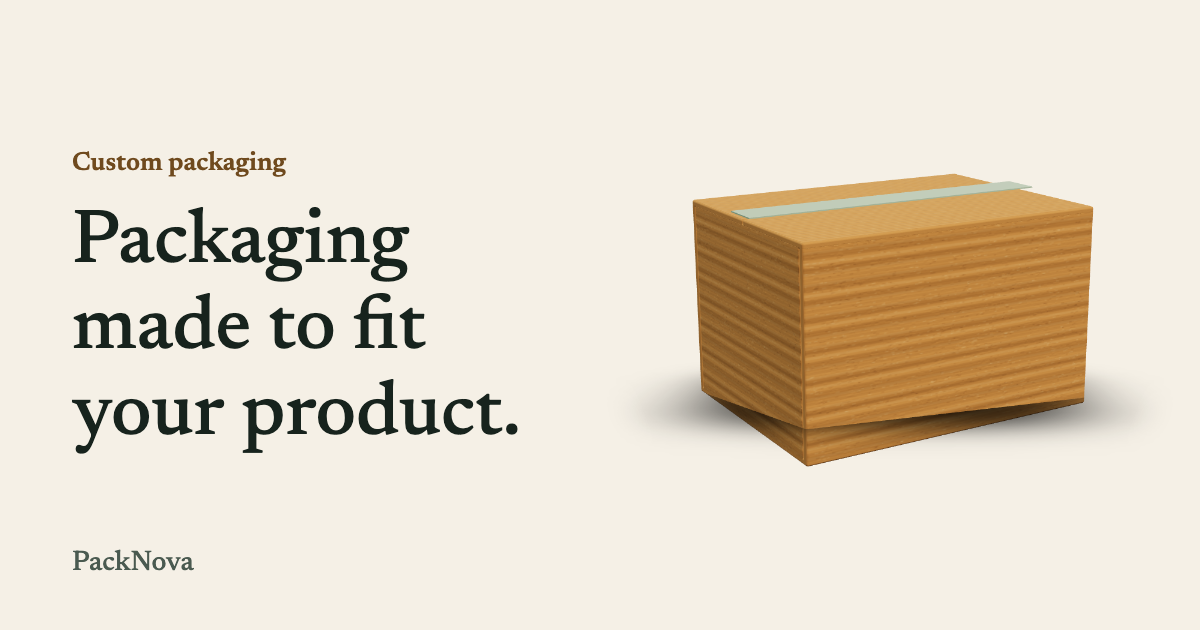
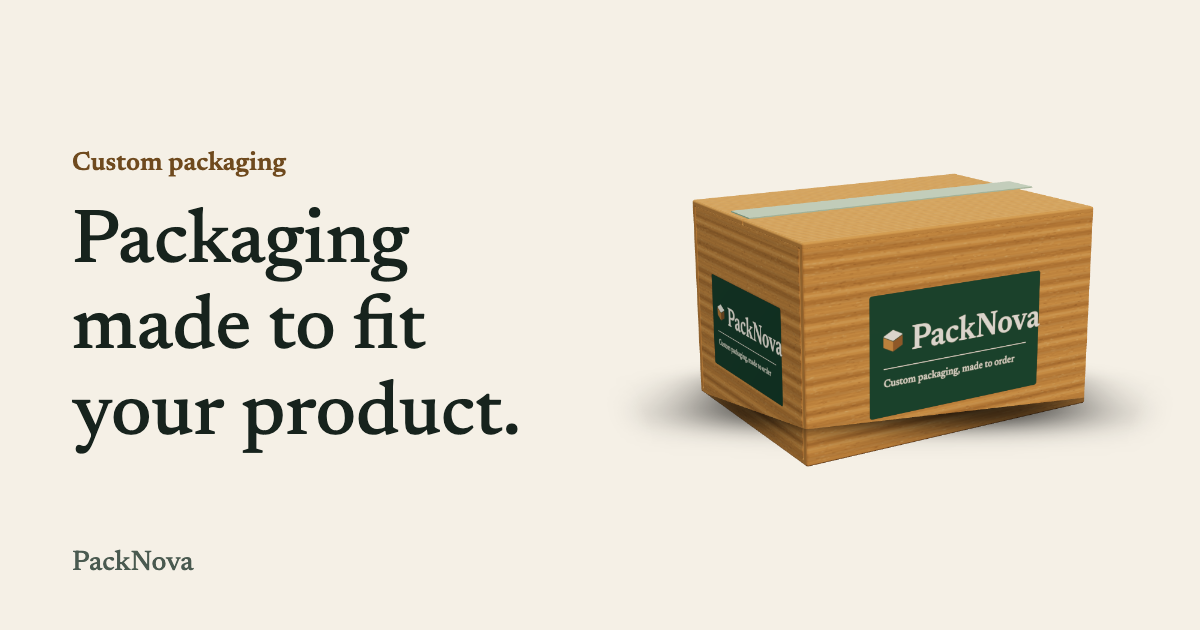
Design pass 2: branded hero carton and matching posters, film stage without a frame, one homepage ending band, lighter clouds, guideline fixes
- hero carton: printed forest panel with the mark and wordmark (display face) on the front and both side walls
- posters: desktop poster cropped from the live canvas at the poster image's own rectangle (poster slot now tracks the live box), separate phone poster via <picture>; export-images.mjs --phone
- film stage: no border or card, edges feather into the dark section; framing unchanged
- homepage ending: configurator hand-off folded into the quote band, the note field is one tap away; ConfiguratorTeaser removed
- delivery clouds: self-lit so they read light and warm
- web-design-guidelines audit fixes: pause control for the 9 s band loop, touch-action, translate=no on the brand, balanced headings, quantity autocomplete off, theme-color matches the page
- docs: design audit updated, before/after screenshots in docs/screenshots/pages-v1/design-pass

Changed region(s): [[0.7092, 0.4222, 0.8942, 0.6635], [0.5858, 0.4222, 0.6783, 0.6333]]

diff --git a/src/components/canvas/Box3D.tsx b/src/components/canvas/Box3D.tsx
@@ -7,7 +7,8 @@ import { useAppStore } from "@/lib/store";
 import { rbox } from "@/lib/geometry";
 import { THEMES, type Theme } from "@/lib/palette";
 import { seg } from "@/lib/making";
-import { setKraftBase, kraftTexture, kraftNormal, contactShadowTexture } from "@/lib/textures";
+import { setKraftBase, kraftTexture, kraftNormal, contactShadowTexture, brandPanelTexture } from "@/lib/textures";
+import { brand } from "@/content/siteCore";
 
 /* ---------- dimensions (world units) ---------- */
 const W = 1.6; // width  (x)
@@ -58,16 +59,20 @@ function buildAssets(detail: 0 | 1 | 2, theme: Theme) {
     depthWrite: false,
   });
   const shadowMat = new THREE.MeshBasicMaterial({ map: shadowMap, transparent: true, depthWrite: false });
+  // printed brand panel on the front and the right wall (the carton in the film carries the same print)
+  const brandMap = brandPanelTexture(brand.name, "Custom packaging, made to order", theme.printBlock ?? "#1e4d3a", theme.fg, () => getComputedStyle(document.querySelector("h1") ?? document.body).fontFamily);
+  const brandMat = new THREE.MeshStandardMaterial({ map: brandMap, transparent: true, roughness: 0.82, metalness: 0, depthWrite: false, polygonOffset: true, polygonOffsetFactor: -2 });
 
   const disposables: { dispose(): void }[] = [
     flapFB, flapLR, bottom, wallFB, wallLR, tape, plane,
     kraftMap, shadowMap, ...(normalMap ? [normalMap] : []),
-    board, tapeMat, glowMat, shadowMat,
+    board, tapeMat, glowMat, shadowMat, brandMap, brandMat,
   ];
 
   return {
     g: { flapFB, flapLR, bottom, wallFB, wallLR, tape, plane },
-    m: { board, tapeMat, glowMat, shadowMat },
+    m: { board, tapeMat, glowMat, shadowMat, brandMat },
+    brandMap,
     accent,
     look: theme.scene,
     disposables,
@@ -195,8 +200,19 @@ export default function Box3D({ detail, reducedMotion }: Props) {
     updateFrame(state, delta, assets, anim.current, parts, detail, reducedMotion);
   });
 
-  // The box leans toward the pointer (fine pointers only: touch screens have none). Listener is passive and writes two numbers.
   const invalidate = useThree((s) => s.invalidate);
+  // the wordmark is painted with the display face: draw it again once the page fonts are in
+  useEffect(() => {
+    let live = true;
+    document.fonts?.ready.then(() => {
+      if (!live) return;
+      (assets.brandMap.userData.repaint as () => void)();
+      invalidate();
+    });
+    return () => { live = false; };
+  }, [assets, invalidate]);
+
+  // The box leans toward the pointer (fine pointers only: touch screens have none). Listener is passive and writes two numbers.
   useEffect(() => {
     if (reducedMotion || detail === 0 || !window.matchMedia("(pointer: fine)").matches) return;
     const p = anim.current.ptr;
@@ -242,6 +258,11 @@ export default function Box3D({ detail, reducedMotion }: Props) {
             <mesh geometry={g.flapLR} material={m.board} />
           </group>
         </group>
+
+        {/* ---- printed brand panel: front wall, and both side walls a little smaller ---- */}
+        <mesh geometry={g.plane} material={m.brandMat} position={[0, H * 0.45, D / 2 + 0.003]} scale={[1.0, 0.625, 1]} />
+        <mesh geometry={g.plane} material={m.brandMat} position={[W / 2 + 0.003, H * 0.45, 0]} rotation={[0, Math.PI / 2, 0]} scale={[0.8, 0.5, 1]} />
+        <mesh geometry={g.plane} material={m.brandMat} position={[-W / 2 - 0.003, H * 0.45, 0]} rotation={[0, -Math.PI / 2, 0]} scale={[0.8, 0.5, 1]} />
 
         {/* ---- seam tape and interior glow ---- */}
         <mesh ref={tapeRef} geometry={g.tape} material={m.tapeMat} position={[0, H + T + 0.004, 0]} />

diff --git a/src/components/sections/QuoteForm.tsx b/src/components/sections/QuoteForm.tsx
@@ -62,17 +62,17 @@ export default function QuoteForm() {
     >
       <div className="grid gap-4 sm:grid-cols-2">
         <label>
-          <span className="mb-1.5 block text-xs text-[var(--muted)]">{f.name}</span>
+          <span className="mb-1.5 block text-sm text-[var(--muted)]">{f.name}</span>
           <input name="name" required autoComplete="name" defaultValue={vals.name ?? ""} className={field} />
         </label>
         <label>
-          <span className="mb-1.5 block text-xs text-[var(--muted)]">{f.phone}</span>
+          <span className="mb-1.5 block text-sm text-[var(--muted)]">{f.phone}</span>
           <input name="phone" type="tel" required autoComplete="tel" inputMode="tel" defaultValue={vals.phone ?? ""} className={field} />
         </label>
       </div>
       <div className="grid gap-4 sm:grid-cols-[1.4fr_1fr]">
         <label>
-          <span className="mb-1.5 block text-xs text-[var(--muted)]">{f.product}</span>
+          <span className="mb-1.5 block text-sm text-[var(--muted)]">{f.product}</span>
           <select name="product" required defaultValue={product} className={field}>
             <option value="" disabled>
               {f.productPlaceholder}
@@ -85,14 +85,18 @@ export default function QuoteForm() {
           </select>
         </label>
         <label>
-          <span className="mb-1.5 block text-xs text-[var(--muted)]">{f.quantity}</span>
-          <input name="quantity" type="number" min={1} inputMode="numeric" required defaultValue={vals.quantity ?? qty} className={field} />
+          <span className="mb-1.5 block text-sm text-[var(--muted)]">{f.quantity}</span>
+          <input name="quantity" type="number" min={1} inputMode="numeric" autoComplete="off" required defaultValue={vals.quantity ?? qty} className={field} />
         </label>
       </div>
-      <label>
-        <span className="mb-1.5 block text-xs text-[var(--muted)]">{f.message}</span>
-        <textarea name="message" rows={2} defaultValue={message} className={field} />
-      </label>
+      {/* the note stays one tap away instead of a fifth open field (still sent with the form, open when a page prefilled it) */}
+      <details open={message.length > 0} className="group">
+        <summary className="cursor-pointer list-none text-sm font-semibold text-[var(--accent)] underline-offset-4 hover:underline [&::-webkit-details-marker]:hidden">
+          <span className="group-open:hidden">+ {f.message}</span>
+          <span className="hidden group-open:inline">{f.message}</span>
+        </summary>
+        <textarea name="message" rows={3} aria-label={f.message} defaultValue={message} className={`${field} mt-2`} />
+      </details>
       <button
         type="submit"
         className="mt-1 inline-flex items-center justify-center rounded-[var(--r-btn)] bg-[var(--accent)] px-8 py-4 text-base font-medium text-[var(--on-accent)] transition-colors duration-300 hover:bg-[var(--fg)]"

diff --git a/src/shared/HeroStage.tsx b/src/shared/HeroStage.tsx
@@ -8,6 +8,8 @@ import { useAppStore } from "@/lib/store";
 interface Props {
   /** Template-specific poster (a render of the hero box in this template's colors). */
   posterSrc: string;
+  /** Poster rendered at phone proportions (the 3D framing differs on a narrow screen), shown below 768 px. */
+  posterSrcMobile?: string;
   posterAlt: string;
   /** Position/size classes for the poster (it sits where the live 3D box will be). */
   posterClassName: string;
@@ -21,7 +23,7 @@ interface Props {
  * Hero scroll engine: pins the hero for 240vh, writes the 0..1 progress that opens the box on the
  * shared fixed canvas, and shows a static poster until the live canvas is ready.
  */
-export default function HeroStage({ posterSrc, posterAlt, posterClassName, behind, children }: Props) {
+export default function HeroStage({ posterSrc, posterSrcMobile, posterAlt, posterClassName, behind, children }: Props) {
   const track = useRef<HTMLDivElement>(null);
   const live = useAppStore((s) => s.ready && !!s.profile?.webgl && !s.glLost);
 
@@ -38,17 +40,20 @@ export default function HeroStage({ posterSrc, posterAlt, posterClassName, behin
       <div ref={track} className="absolute inset-0" />
       <div className="sticky top-0 h-dvh overflow-hidden">
         {behind}
-        {/* eslint-disable-next-line @next/next/no-img-element */}
-        <img
-          src={posterSrc}
-          alt={posterAlt}
-          width={800}
-          height={800}
-          fetchPriority="high"
-          loading="eager"
-          decoding="async"
-          className={`absolute transition-opacity duration-700 ${posterClassName} ${live ? "opacity-0" : "opacity-100"}`}
-        />
+        <picture>
+          {posterSrcMobile && <source media="(max-width: 767px)" srcSet={posterSrcMobile} />}
+          {/* eslint-disable-next-line @next/next/no-img-element */}
+          <img
+            src={posterSrc}
+            alt={posterAlt}
+            width={800}
+            height={800}
+            fetchPriority="high"
+            loading="eager"
+            decoding="async"
+            className={`absolute transition-opacity duration-700 ${posterClassName} ${live ? "opacity-0" : "opacity-100"}`}
+          />
+        </picture>
         {children}
       </div>
     </SceneZone>

diff --git a/src/lib/textures.ts b/src/lib/textures.ts
@@ -175,3 +175,46 @@ export function contactShadowTexture() {
   t.colorSpace = THREE.SRGBColorSpace;
   return t;
 }
+
+/**
+ * The printed brand panel of the hero carton (and the carton in the film uses the same look): a forest block with the mark, the wordmark and
+ * one line under a thin rule. Transparent around the block, so the kraft shows as a margin. `repaint()` draws it again (call it once the page
+ * fonts have loaded, so the wordmark uses the display face).
+ */
+export function brandPanelTexture(name: string, tagline: string, ink: string, paper: string, fontFamily: () => string) {
+  const [c, g] = makeCanvas(1024, 640);
+  const t = finish(c, true, false);
+  const repaint = () => {
+    const font = fontFamily();
+    g.clearRect(0, 0, 1024, 640);
+    g.fillStyle = ink;
+    g.beginPath();
+    g.roundRect(24, 24, 976, 592, 14);
+    g.fill();
+    // the mark: a small folded box, same three faces as the logo
+    const mx = 150, my = 255, k = 4.3;
+    const poly = (pts: number[][], fill: string) => {
+      g.beginPath();
+      pts.forEach(([x, y], i) => (i ? g.lineTo(mx + x * k, my + y * k) : g.moveTo(mx + x * k, my + y * k)));
+      g.closePath();
+      g.fillStyle = fill;
+      g.fill();
+    };
+    poly([[-12, -6], [0, 0], [0, 11], [-12, 5]], "#b8803f");
+    poly([[12, -6], [0, 0], [0, 11], [12, 5]], "#8a5f2e");
+    poly([[0, -13], [12, -7], [0, -1], [-12, -7]], paper);
+    g.fillStyle = paper;
+    g.textBaseline = "alphabetic";
+    g.font = `600 170px ${font}`;
+    g.fillText(name, 250, 308);
+    g.fillRect(100, 380, 824, 3);
+    g.font = `400 52px ${font}`;
+    g.globalAlpha = 0.9;
+    g.fillText(tagline, 100, 470);
+    g.globalAlpha = 1;
+    t.needsUpdate = true;
+  };
+  repaint();
+  t.userData.repaint = repaint;
+  return t;
+}

diff --git a/src/templates/eco/QuoteSection.tsx b/src/templates/eco/QuoteSection.tsx
@@ -1,3 +1,4 @@
+import Link from "next/link";
 import { site } from "@/content/site";
 import QuoteForm from "@/components/sections/QuoteForm";
 import TrackedA from "@/components/ui/TrackedA";
@@ -13,7 +14,10 @@ export default function QuoteSection() {
         <div data-reveal="subtle">
           <h2 className="font-display text-4xl font-medium leading-[1.12] md:text-5xl">{copy.quote.heading}</h2>
           <p className="mt-4 max-w-md text-lg opacity-90">{copy.quote.lead}</p>
-          <TrackedA event="quote_section_whatsapp" href={c.whatsappHref} className="mt-8 inline-flex rounded-[var(--r-btn)] border border-[var(--on-accent)] px-6 py-3 text-base font-semibold hover:bg-[var(--on-accent)] hover:text-[var(--accent)]">
+          <p className="mt-8 font-display text-2xl font-medium">{copy.configurator.heading}</p>
+          <p className="mt-1 max-w-md opacity-90">{copy.configurator.body}</p>
+          <Link href="/configurator/" className="mt-4 inline-flex rounded-[var(--r-btn)] bg-[var(--on-accent)] px-6 py-3 text-base font-semibold text-[var(--accent)] hover:bg-white">{copy.configurator.cta}</Link>
+          <TrackedA event="quote_section_whatsapp" href={c.whatsappHref} className="mt-10 inline-flex rounded-[var(--r-btn)] border border-[var(--on-accent)] px-6 py-3 text-base font-semibold hover:bg-[var(--on-accent)] hover:text-[var(--accent)]">
             {q.whatsappCta}: {c.whatsapp}
           </TrackedA>
           <ul className="mt-6 space-y-1 text-base">

diff --git a/src/catalog/InViewPlay.tsx b/src/catalog/InViewPlay.tsx
@@ -1,10 +1,11 @@
 "use client";
 
-import { useEffect, useRef, type ReactNode } from "react";
+import { useEffect, useRef, useState, type ReactNode } from "react";
 
-/** Sets data-on on its wrapper while it is on screen, so a CSS animation can run only then (without script it stays paused). */
+/** Sets data-on on its wrapper while it is on screen, so a CSS animation can run only then (without script it stays paused); has a pause button. */
 export default function InViewPlay({ className, children }: { className?: string; children: ReactNode }) {
   const ref = useRef<HTMLDivElement>(null);
+  const [paused, setPaused] = useState(false);
   useEffect(() => {
     const el = ref.current;
     if (!el || !("IntersectionObserver" in window)) return;
@@ -12,5 +13,13 @@ export default function InViewPlay({ className, children }: { className?: string
     io.observe(el);
     return () => io.disconnect();
   }, []);
-  return <div ref={ref} className={className}>{children}</div>;
+  // a loop that lasts longer than 5 s next to other content needs a way to stop it (WCAG 2.2.2)
+  return (
+    <div ref={ref} className={className} data-paused={paused ? "" : undefined}>
+      {children}
+      <button type="button" aria-pressed={paused} onClick={() => setPaused((v) => !v)} className="band-pause mt-2 block text-sm font-semibold underline underline-offset-4">
+        {paused ? "Play animation" : "Pause animation"}
+      </button>
+    </div>
+  );
 }

diff --git a/src/templates/eco/Story.tsx b/src/templates/eco/Story.tsx
@@ -25,7 +25,7 @@ function Cta({ links }: { links: StoryApi["links"] }) {
   );
 }
 
-/** Dark frame; the 3D box in a thin-bordered panel; caption on the left; a rule-based step list along the bottom. */
+/** Dark frame; the 3D stage with feathered edges (no border, no card); caption on the left; a rule-based step list along the bottom. */
 function Overlay(api: StoryApi) {
   const { stage, chapter, chapters, cta, stages, goTo, links, showQuote } = api;
   const last = stage === stages.length - 1;
@@ -140,7 +140,7 @@ export default function Story({ base }: { base: string }) {
     <StoryEngine
       base={base}
       stickyClassName="tone-dark"
-      canvasClassName="absolute inset-x-3 top-16 h-[42%] overflow-hidden rounded-[var(--r-card)] border border-[var(--line)] bg-[var(--surface)] md:inset-x-auto md:bottom-24 md:right-6 md:top-20 md:h-auto md:w-[56%]"
+      canvasClassName="story-stage absolute inset-x-3 top-16 h-[42%] overflow-hidden md:inset-x-auto md:bottom-24 md:right-6 md:top-20 md:h-auto md:w-[56%]"
       overlay={Overlay}
       fallback={<Fallback base={base} />}
     />

diff --git a/src/templates/eco/tokens.css b/src/templates/eco/tokens.css
@@ -99,3 +99,19 @@ div[data-template="eco"] .stage {
   background-position: -1px -1px;
   box-shadow: inset 0 -46px 56px -52px rgba(63, 42, 14, 0.38);
 }
+
+/* The film stage has no frame: its edges feather into the dark section, so the 3D reads as filling the section (framing is untouched). */
+div[data-template="eco"] .story-stage {
+  -webkit-mask-image: linear-gradient(to right, transparent, #000 7%, #000 93%, transparent), linear-gradient(to bottom, transparent, #000 7%, #000 93%, transparent);
+  -webkit-mask-composite: source-in;
+  mask-image: linear-gradient(to right, transparent, #000 7%, #000 93%, transparent), linear-gradient(to bottom, transparent, #000 7%, #000 93%, transparent);
+  mask-composite: intersect;
+}
+
+/* No double-tap zoom delay on controls; the tap flash is the focus ring's job, not the browser's. */
+div[data-template="eco"] a,
+div[data-template="eco"] button,
+div[data-template="eco"] summary {
+  touch-action: manipulation;
+  -webkit-tap-highlight-color: transparent;
+}

diff --git a/src/templates/eco/Hero.tsx b/src/templates/eco/Hero.tsx
@@ -9,8 +9,9 @@ export default function Hero({ base }: { base: string }) {
   return (
     <HeroStage
       posterSrc="/textures/hero-poster-eco.webp"
+      posterSrcMobile="/textures/hero-poster-eco-m.webp"
       posterAlt={hero.posterAlt}
-      posterClassName="w-[min(78vw,520px)] max-md:left-1/2 max-md:top-[30%] max-md:-translate-x-1/2 max-md:-translate-y-1/2 md:right-[6vw] md:top-1/2 md:-translate-y-1/2"
+      posterClassName="max-md:w-[min(78vw,520px)] max-md:left-1/2 max-md:top-[30%] max-md:-translate-x-1/2 max-md:-translate-y-1/2 md:left-[70%] md:top-[56%] md:w-[min(89dvh,62vw)] md:-translate-x-1/2 md:-translate-y-1/2"
     >
       <div className="relative z-10 mx-auto flex h-full max-w-6xl flex-col justify-end px-6 pb-28 pt-32 md:justify-center md:pb-0">
         <p className="text-base font-semibold text-[var(--kraft-ink)]" data-og-eyebrow>{hero.kicker}</p>

diff --git a/src/catalog/RelatedProducts.tsx b/src/catalog/RelatedProducts.tsx
@@ -17,7 +17,7 @@ export default function RelatedProducts({ page }: { page: CatalogPage }) {
       <div className="mx-auto max-w-6xl">
         <div className="flex flex-wrap items-end justify-between gap-x-8 gap-y-3">
           <div>
-            <h2 id="rel-h" className="font-display text-3xl font-medium leading-[1.1] md:text-4xl">{PAGE_END.relatedTitle}</h2>
+            <h2 id="rel-h" className="font-display text-balance text-3xl font-medium leading-[1.1] md:text-4xl">{PAGE_END.relatedTitle}</h2>
             <p className="mt-2 max-w-xl text-lg text-[var(--muted)]">{PAGE_END.relatedLine}</p>
           </div>
           <Link href={g.href} className="rel-viewall font-semibold text-[var(--accent)] underline-offset-4 hover:underline">

diff --git a/src/components/canvas/making/JourneyScene.tsx b/src/components/canvas/making/JourneyScene.tsx
@@ -569,7 +569,10 @@ function apply(j: Journey, P: number, state: { camera: THREE.Camera; size: { wid
       }
       j.cloudMesh.instanceMatrix.needsUpdate = true;
     }
-    (j.cloudMat as THREE.MeshStandardMaterial | THREE.MeshBasicMaterial).color.copy(c.cloudDay).lerp(c.cloudDusk, dusk);
+    const cm = j.cloudMat as THREE.MeshStandardMaterial | THREE.MeshBasicMaterial;
+    cm.color.copy(c.cloudDay).lerp(c.cloudDusk, dusk);
+    // self-lit (a third of the cloud colour) so the puffs read light and warm instead of grey under the dark scene's lights
+    if ((cm as THREE.MeshStandardMaterial).isMeshStandardMaterial) (cm as THREE.MeshStandardMaterial).emissive.copy(cm.color).multiplyScalar(0.38);
   }
 
   /* ---- village + van ---- */

diff --git a/src/templates/eco/Products.tsx b/src/templates/eco/Products.tsx
@@ -16,7 +16,7 @@ export default function Products() {
     <section id="products" className="relative z-10 bg-[var(--bg)] px-6 py-20 md:py-28">
       <div className="mx-auto max-w-6xl">
         <div className="grid gap-4 md:grid-cols-[1fr_1.6fr] md:gap-16">
-          <h2 data-reveal="subtle" className="font-display text-4xl font-medium leading-[1.1] md:text-5xl">{c.heading}</h2>
+          <h2 data-reveal="subtle" className="font-display text-balance text-4xl font-medium leading-[1.1] md:text-5xl">{c.heading}</h2>
           <p data-reveal="subtle" className="max-w-md text-lg text-[var(--muted)] md:pt-3">{c.lead}</p>
         </div>
         <ul className="mt-12 grid gap-5 sm:grid-cols-2 lg:grid-cols-3">
